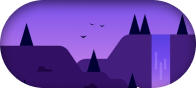
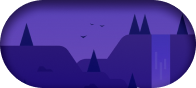
Updated basis design, refine, clean

diff --git a/styles.css b/styles.css
@@ -6,7 +6,7 @@ body {
     text-align: -webkit-center;
     background: rgba(000, 000, 000, 0.01);
     color: white;
-    max-height: 410px;
+    height: 344px;
     /* border-bottom-left-radius: 15px; */
     /* border-bottom-right-radius: 15px; */
     background-color: #020202;
@@ -32,13 +32,13 @@ button {
 
 #remote-control {
   display: flex;
-  /* flex-direction: column; */
-  justify-content: space-between;
+    /* flex-direction: column; */
+    justify-content: space-between;
     align-items: flex-start;
-  /* border-top-left-radius: 15px; */
-  /* border-top-right-radius: 15px; */
-  margin: 18px;
-  margin-right: 23px;
+    /* border-top-left-radius: 15px; */
+    /* border-top-right-radius: 15px; */
+    margin: 5px;
+    margin-right: 14px;
 } 
 
 
@@ -61,19 +61,18 @@ button {
 }
 
 main {
-  height: 278px;
-  display: flex
-;
+  display: flex;
     flex-direction: column;
     justify-content: space-between;
     align-items: center;
-    padding: 4px;
-
+    padding: 5px;
+    padding-top: 8px;
+    gap: 13px;
 }
 
 #remote-wrapper-background {
   width: 222px;
-  height: 227px;
+  /* height: 227px; */
 
   /* background: #000000; */
   /* border-radius: 41px; */
@@ -118,17 +117,16 @@ border-top-right-radius: 11px;
   display: flex
 ;
     justify-content: center;
-    align-items: end;
+    align-items: center;
     /* flex-direction: column; */
     gap: 4px;
     background: #292929;
-    height: 73px;
-    width: 207px;
+    height: 28px;
+    width: 198px;
     z-index: -1;
-    padding-bottom: 20px;
-    border-bottom-right-radius: 16px;
-    border-bottom-left-radius: 16px;
-    margin-top: -89px;
+    padding-bottom: 0px;
+    border-radius: 16px;
+    margin-top: 0px;
 }
 
 /* .toggle-button{
@@ -179,7 +177,9 @@ opacity: 0.4;
 
 
 #footer {
-  margin-top: 63px;
+  /* margin-top: 63px; */
+  position: absolute;
+  bottom: 0px;;
 }
 
 
@@ -198,19 +198,26 @@ opacity: 0.4;
 
 #toggle-button-wrapper {
   display: flex
-  ;
-      flex-direction: row;
-      width: 191px;
-      height: 88px;
-      justify-content: flex-start;
-      align-items: end;
-      background-color: #2A2959;
-      border-radius: 47px;
-      margin-top: -12px;
-      padding-left: 11px;
-      padding-right: 11px;
-      background: url(./assets/remote/darkmode/switch_off_bg.jpg) no-repeat;
-      background-size: cover
+;
+    flex-direction: row;
+    width: 208px;
+    height: 88px;
+    justify-content: flex-start;
+    align-items: end;
+    background-color: #2A2959;
+    border-radius: 48.89px;
+    margin-top: 5px;
+    /* padding-left: 11px; */
+    /* padding-right: 11px; */
+    background: url(./assets/remote/darkmode/switch_off_bg.jpg) no-repeat;
+    background-size: cover;
+    align-self: center;
+    align-items: center;
+}
+
+#toggle-button-switch {
+  height: 79px;
+    width: 96px;
 }
 /* glow
 #toggle-track {

diff --git a/popup.html b/popup.html
@@ -18,14 +18,12 @@
           <img src="./assets/remote/darkmode/logo_dark_mode.png" alt="logo" id="logo">
           <img src="./assets/remote/darkmode/screenCastingIcon.png" alt="logo" id="logo">
         </div>
-        <div>
           <div id="toggle-button-wrapper"> 
             <div id="toggle-track">
               <div id="toggle-button-switch">
                 <img src="./assets/remote/darkmode/switch_off.png">
               </div>
             </div>
-          </div>
           <!-- <img class="toggle-button" src="./assets/remote/darkmode/toggle_dark_off.png" alt="logo" id="logo"> -->
           <!-- <button data-time="day" id="button-wrapper">
             <span id="button" onclick="toggleButton()"></span>
